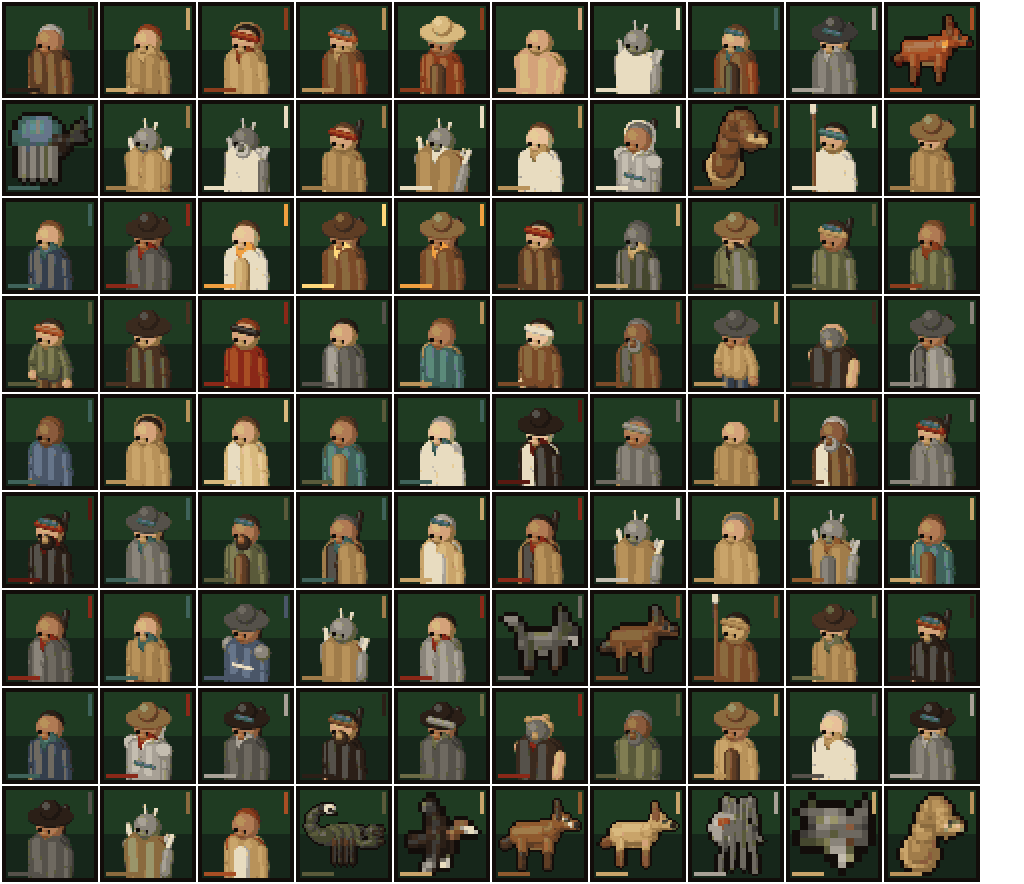
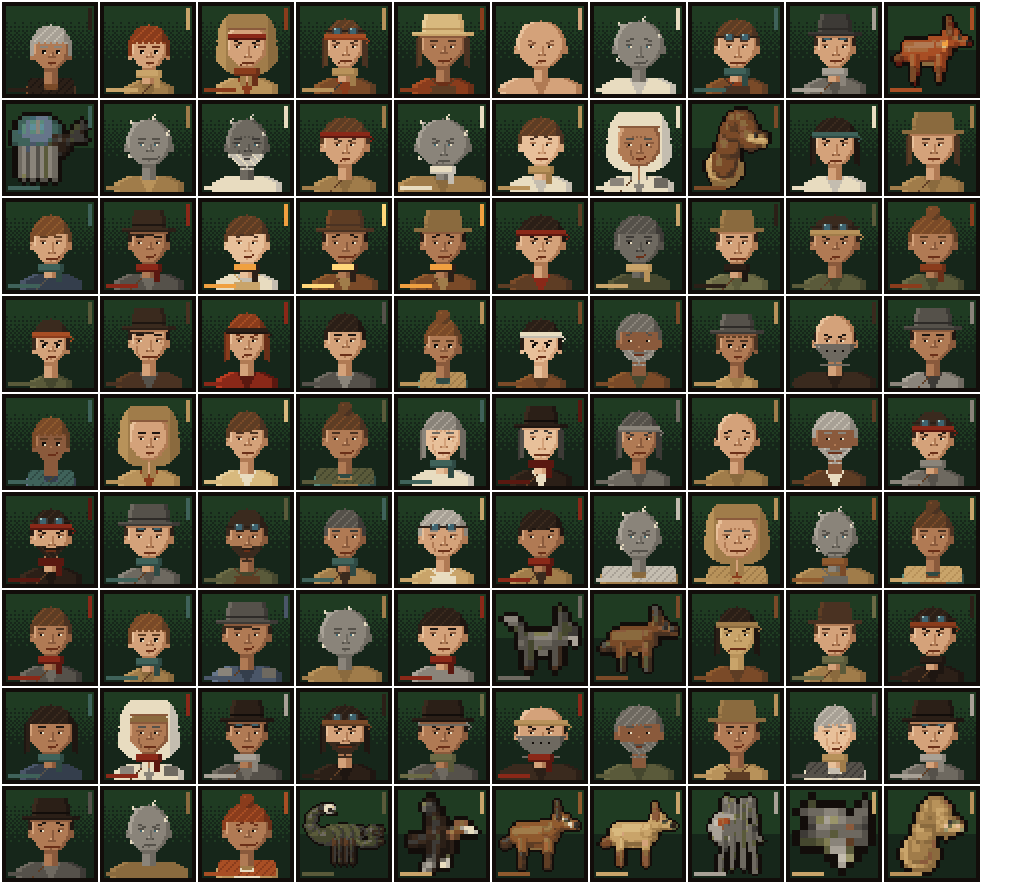
feat: Implement detailed NPC dialogue portraits with unique facial features

diff --git a/docs/ARCHITECTURE.md b/docs/ARCHITECTURE.md
@@ -12,7 +12,7 @@
 - **Keyboard** goes through `onKey()` (`src/ui/keys.ts`), a DOM listener scoped to the scene. Phaser 3.90's keyboard queue re-dispatches earlier keys when several arrive within one frame.
 - **Settings** (`src/core/Settings.ts`) are stored apart from the save: sound, volume, text speed, grain/vignette, default zoom, combat speed.
 - **Client-side localization.** `src/i18n/display.ts` renders reviewed English dialogue, journal entries, location and area names on the client; `src/i18n/ui.ts` pairs interface strings, and `src/ui/tips.ts` pairs loading tips. The room sends Russian fallback text plus optional dialogue node, source option indexes and check metadata; choice intents still use the visible index. `dialogueHistory` optionally records content references within v2 saves, while old rendered lines remain valid. The language preference is separate from game state; English is the default and Settings offers English/Russian with a client restart (`docs/LOCALIZATION.md`).
-- **NPC dialogue portraits.** `tools/gen-npc-portrait-manifest.mjs` maps speaking actors in generated maps, companion talks and road-party leaders to their character or creature sheets, excluding object talks. `src/content/{npcPortraits,roadPortraits}.json` bind missing and deliberately distinct portraits without editing generated quest dialogue; `content/index.ts` attaches them to the same dialogue messages in solo and co-op. `gen:npc-portraits` makes pixel-snapped 96px portraits in a separate `npc_portraits` atlas, because the map atlas is already close to the 8192px texture-height limit; `gen:assets` also rebuilds it. `DialogueView` picks the atlas by frame prefix. Existing named portraits remain unchanged; two appearances of the same NPC can share one frame.
+- **NPC dialogue portraits.** `tools/gen-npc-portrait-manifest.mjs` maps speaking actors in generated maps, companion talks and road-party leaders to their character or creature sheets, excluding object talks. `src/content/{npcPortraits,roadPortraits}.json` bind missing and deliberately distinct portraits without editing generated quest dialogue; `content/index.ts` attaches them to the same dialogue messages in solo and co-op. `gen:npc-portraits` makes pixel-snapped 96px portraits in a separate `npc_portraits` atlas, because the map atlas is already close to the 8192px texture-height limit; `gen:assets` also rebuilds it. `DialogueView` picks the atlas by frame prefix. Every portrait is a face close-up painted by `tools/art/faces.mjs` from the character's look (skin, hair, hat, hood, bandana, goggles, beard, mask, salt growths; age lines with grey hair; small features vary by id), not the map figure scaled up, which is too small to carry a face. Two appearances of the same NPC can share one frame.
 - **NPC identity.** A dialogue is not a person: `content/index.ts` gives every illustrated talk an `npcId` (its own id, or the person named in `npcIdentity.json` when one NPC has several talks) and the canonical talk's portrait. `room/NpcIdentity.ts` splits actors that share one generic talk into map-scoped ids (`map:actor`) unless the map actor declares `npcId`; road meetings use `road_<party>`. When such actors also look different (Горечь and her Горькие, Шнырь and Галка, a crowd), `actorPortraits.json` (written by `gen:npc-portraits`, keyed `map:actor`) gives each the portrait of its own sheet; the room passes it to `DialogueRunner`, so the window and the history show that face. The id travels in `DialogueMsg`, `dialogueHistory` groups by it (old speaker-only v2 entries are claimed only when unambiguous), and `questGivers.json` gives a quest its real initiator for the journal portrait. Object talks and quests started by a find get no id and no face.
 - **Hostile outlines** (`world/HostileOutlines.ts`, client only). In a fight, a hostile whose opaque pixels are covered by a vehicle frame drawn in front of it (`occlusion.ts` compares alpha masks, cached per frame) gets a thin red silhouette above everything. Picking still goes through `Pointer.targetAt`, which tries hostiles before props; line of sight and hits stay with the room.
 - **Game model** (`src/core/Game.ts`) owns state and emits `log`, `flag`, `inventory`, `stats`, `quest`, `check`. The world reacts to flags (`door_open` swaps the door frame and unblocks the tile, `pump_fixed` shows water).

diff --git a/PROJECT_STATE.md b/PROJECT_STATE.md
@@ -15,7 +15,7 @@ Speaking NPCs, companions, town animals and leaders of world-map encounters now 
 
 NPC identity and portrait attribution now extend to the journal: `npcIdentity.json` joins repeat appearances such as Писарь and Шлюз, `questGivers.json` links 56 quests to actual initiating NPCs (21 object, route or world quests have no invented giver), and each new dialogue-history entry keeps the ID and portrait. Physical actors sharing one generic talk have map-scoped IDs; alternate bodies of Бугай, Молчун and Горечь declare the same person ID. Procedural road meetings use each party's instance ID, so similarly named strangers do not merge. Marta's existing `portrait_marta` is confirmed in her dialogue, quest row and history. The returned Ржавчик at Три столба now has his own petting talk and portrait instead of opening Митяй's dialogue. Enemy silhouettes covered by any of the four vehicle frames now show a thin red combat outline; the effect is client-only and does not change line of sight or hit rules.
 
-The avatar and outline work is finished. People who share one generic talk but look different now show their own face in the window and in the history. That is 19 actors: Горечь's Горькие, Галка, the arena fighters and crowd, townsfolk of Соль, Запруда and Кристалл, and the eel brood, whose portrait is generated (`src/content/actorPortraits.json`). Tests: every shared talk gives different looks different faces; a room test and a browser test cover Галка; an outline appears behind the van and disappears in front of it; a click on the outline shoots the hidden scorpion instead of walking to the van. Open: the water tanker is outlined like the cars, but unlike them it does not block line of fire (`OPAQUE` in `core/world/Grid.ts`). It stands only in the Elevator yard, and changing it would shift that fight's balance.
+Portraits are now real faces. `buildPortrait` used to scale up the map figure, which has no face, so every avatar was a blank bust (Marta's looked missing); `tools/art/faces.mjs` paints a head-and-shoulders close-up for all 127 characters and the generated NPC portraits. The avatar and outline work is finished. People who share one generic talk but look different now show their own face in the window and in the history. That is 19 actors: Горечь's Горькие, Галка, the arena fighters and crowd, townsfolk of Соль, Запруда and Кристалл, and the eel brood, whose portrait is generated (`src/content/actorPortraits.json`). Tests: every shared talk gives different looks different faces; a room test and a browser test cover Галка; an outline appears behind the van and disappears in front of it; a click on the outline shoots the hidden scorpion instead of walking to the van. Open: the water tanker is outlined like the cars, but unlike them it does not block line of fire (`OPAQUE` in `core/world/Grid.ts`). It stands only in the Elevator yard, and changing it would shift that fight's balance.
 
 The secret branch «Обитель Ракеты» is implemented in the bible, content, five linked maps, art, room/travel systems and finale. Its moving 3×3 storm opens only after Chapter V, the Sanctuary keeps one real dog alive for ~70 years without a definitive explanation, each player's pilgrim chest restores gear safely, and its four water/power outcomes appear in ending slides. The archive adds a Repair/Science 55 alternative for the dam's sentries without replacing the Mandate or supplying trial evidence. Rocket-specific unit and browser tests cover discovery, gear, story, water economy, save/load inside the Sanctuary and the finale. The complete unit and browser suites, lint, build and non-strict i18n audit pass.
 
